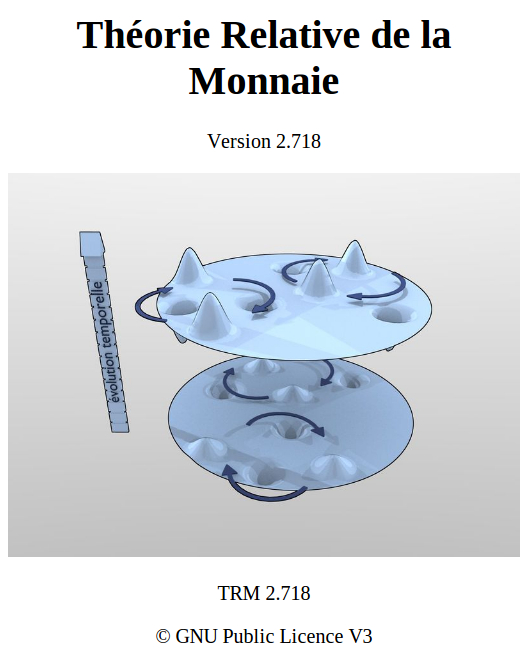
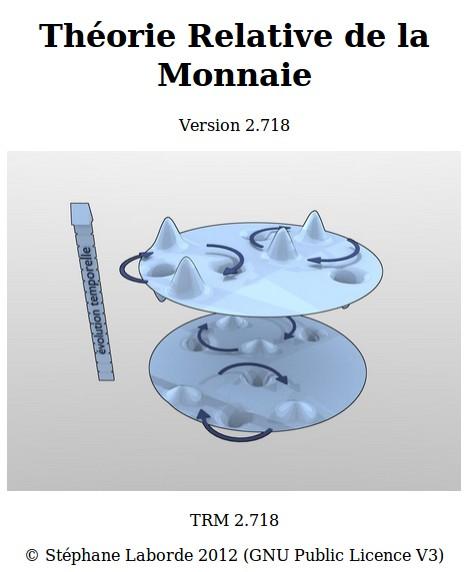
Remove copyright under title in html and add author name in epub cover.jpg

diff --git a/source/themes/html/layout.html b/source/themes/html/layout.html
@@ -39,8 +39,6 @@
 {% if pagename == 'index' %}
 <div class="book-title">
     <h1>{{ docstitle }}</h1>
-
-    <span>© Stéphane Laborde 2012 (GNU Public Licence V3)</span>
 </div>
 {%- endif %}
             {% block body %} {% endblock %}

diff --git a/source/themes/epub/static/cover.html b/source/themes/epub/static/cover.html
@@ -14,7 +14,7 @@
 
             <p>TRM 2.718</p>
 
-            <p>© GNU Public Licence V3</p>
+            <p>© Stéphane Laborde 2012 (GNU Public Licence V3)</p>
         </div>
     </body>
 </html>
